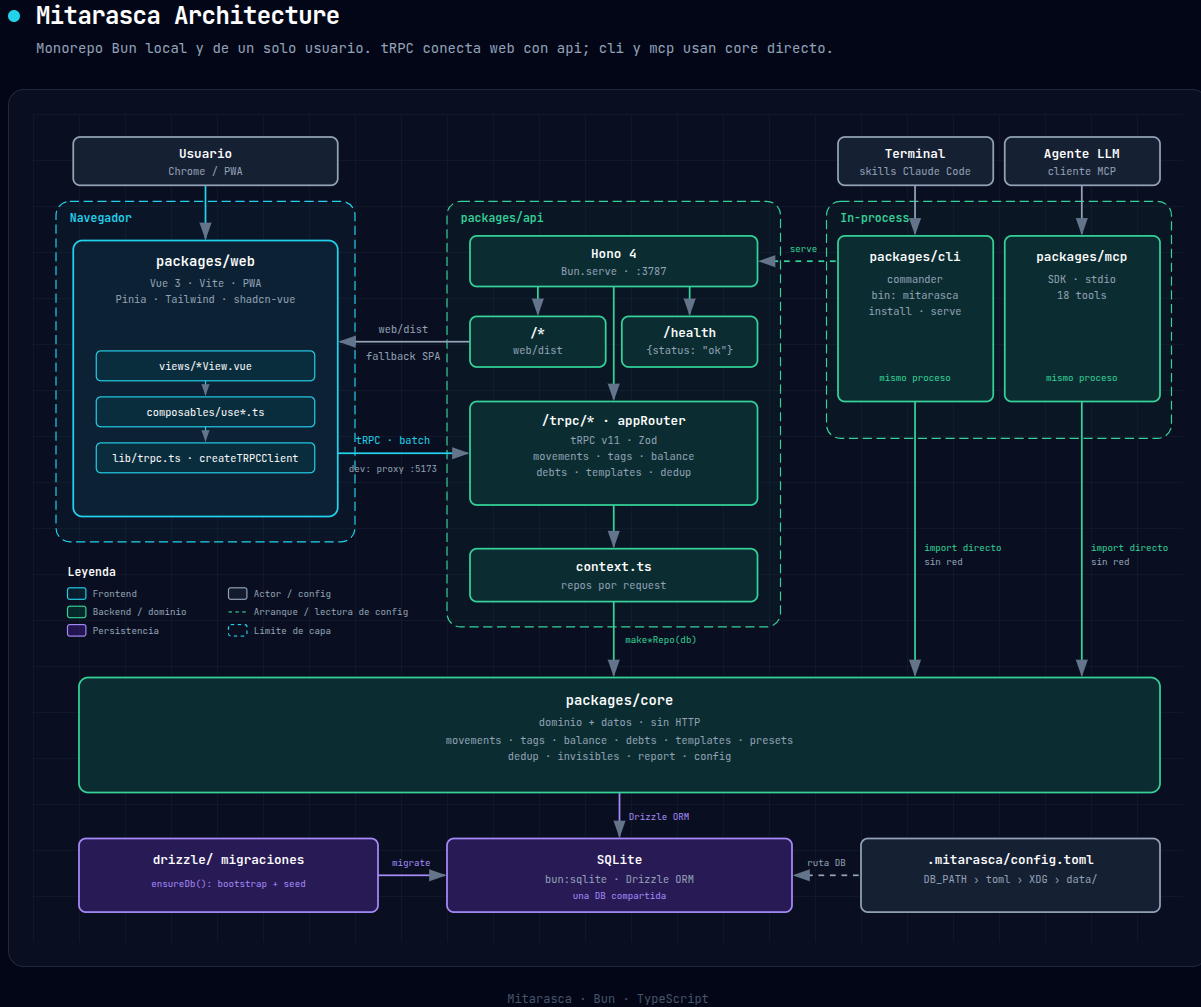
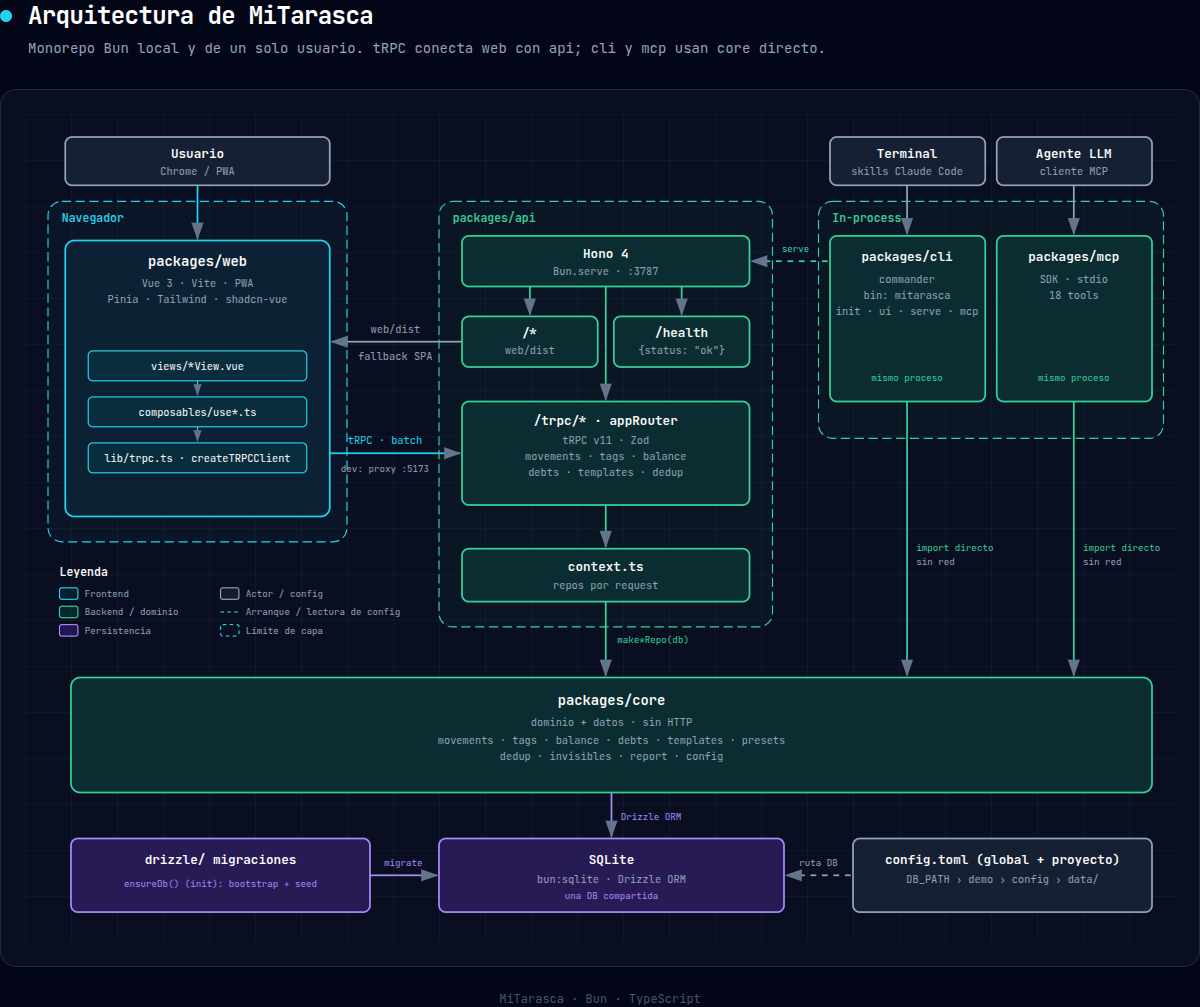
release v0.2.0

diff --git a/docs/architecture.md b/docs/architecture.md
@@ -2,8 +2,6 @@ Mitarasca es un monorepo Bun de una app local de finanzas personales (un solo us
 
 ![Componentes de MiTarasca: la web llama a la API por tRPC; la API, la CLI y el MCP usan core, que lee y escribe un único archivo SQLite](img/architecture.png)
 
-<!-- OWNER: exportar de nuevo docs/img/architecture.png desde docs/architecture.html (se corrigieron título, grafía, comandos de la CLI y orden de la base). -->
-
 ## 1. Capas y componentes
 
 **Cliente (navegador)**
